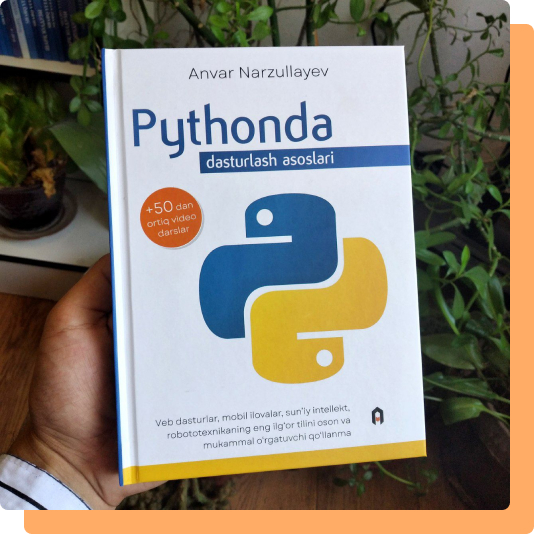
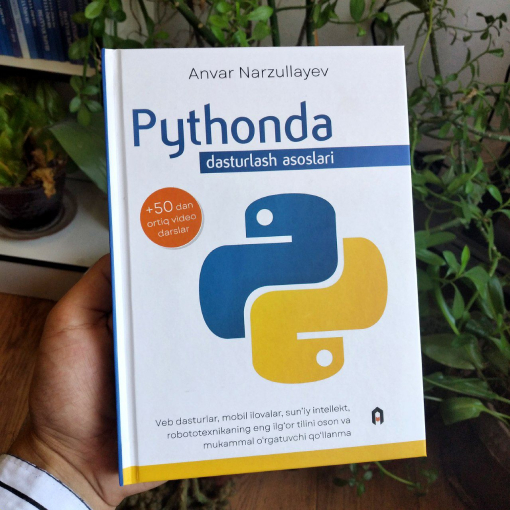
padding

diff --git a/css/style.css b/css/style.css
@@ -22,6 +22,7 @@
 
 * {
   font-family: "Roboto", sans-serif;
+  margin: 0;
 }
 
 .list-none {
@@ -33,6 +34,8 @@
   display: flex;
   justify-content: space-between;
   align-items: center;
+  border-top: 5px  solid #FF7500;
+  padding: 16px 0 ;
 }
 
 .site-logo {
@@ -57,6 +60,7 @@
   list-style: none;
   display: flex;
   gap: 32px;
+  padding: 0;
 }
 
 .sitenav-link {
@@ -82,6 +86,9 @@
   color: #fff;
   text-decoration: none;
   transition: opacity 0.5s ease;
+  padding: 12px 24px;
+  border-radius: 4px;
+  display: inline-block;
 }
 
 .main-link:hover {
@@ -93,8 +100,11 @@
   display: flex;
   align-items: center;
   justify-content: space-between;
+  padding: 80px 0;
 }
-
+.hero-section img {
+  border-radius: 8px;
+}
 .hero-content {
   width: 390px;
   color: #fff;
@@ -104,6 +114,7 @@
   background: #FF7500;
   width: 80px;
   height: 3px;
+  border: none;
 }
 
 .hero-title {
@@ -128,11 +139,14 @@
   font-size: 72px;
   line-height: 86.4px;
 }
-
+.feature-section {
+  padding: 210px 0;
+}
 .feature-list {
   display: flex;
   list-style: none;
   justify-content: space-between;
+  padding: 0;
 }
 
 .feature {
@@ -160,8 +174,13 @@
   display: flex;
   align-items: center;
   justify-content: space-between;
-}
+  padding: 64px 0;
+  border-radius: 12px;
 
+}
+.sale img {
+  border-radius: 12px;
+}
 .sale-content {
   width: 440px;
   color: #fff;
@@ -194,8 +213,10 @@
 
 .site-footer {
   background-color: #f8f8f8;
-}
+  padding: 56px 0;
 
+}
+ 
 .footer-divider {
   height: 2px;
   background-color: #25242080;
@@ -206,13 +227,17 @@
   justify-content: end;
   gap: 16px;
   list-style: none;
+  
 }
 
-.footer-bottom {
+.footer-bottom  {
   display: flex;
   justify-content: space-between;
+  padding: 50px 0;
 }
-
+.footer-bottom ul {
+  padding: 0;
+}
 .footer-link {
   font-weight: 400;
   font-size: 16px;
@@ -220,6 +245,7 @@
   color: #252420;
   text-decoration: none;
   transition: all 0.5s ease;
+  padding: 7px;
 }
 
 .footer-link:hover {

diff --git a/index.html b/index.html
@@ -38,7 +38,7 @@
         <a href="#" class="main-link">Buyurtma berish</a>
       </div>
       <div>
-        <img src="./img/python-book.jpg" alt="Kitob" width="510" height="510">
+        <img src="./img/python-book.jpg" alt="Kitob" width="510" height="510" class="">
       </div>
     </section>
 
@@ -46,7 +46,8 @@
     <section class="feature-section">
 
       <hr class="orange-line">
-      <h2 class="feature-title">Nega aynan Akademnashr?</h2>
+      <h2 class="feature-title">Nega aynan<br> Akademnashr?</h2>
+      
       <ul class="feature-list">
         <li class="feature">
           <img src="./img/feature-icon1.png" alt="Feature icon">
